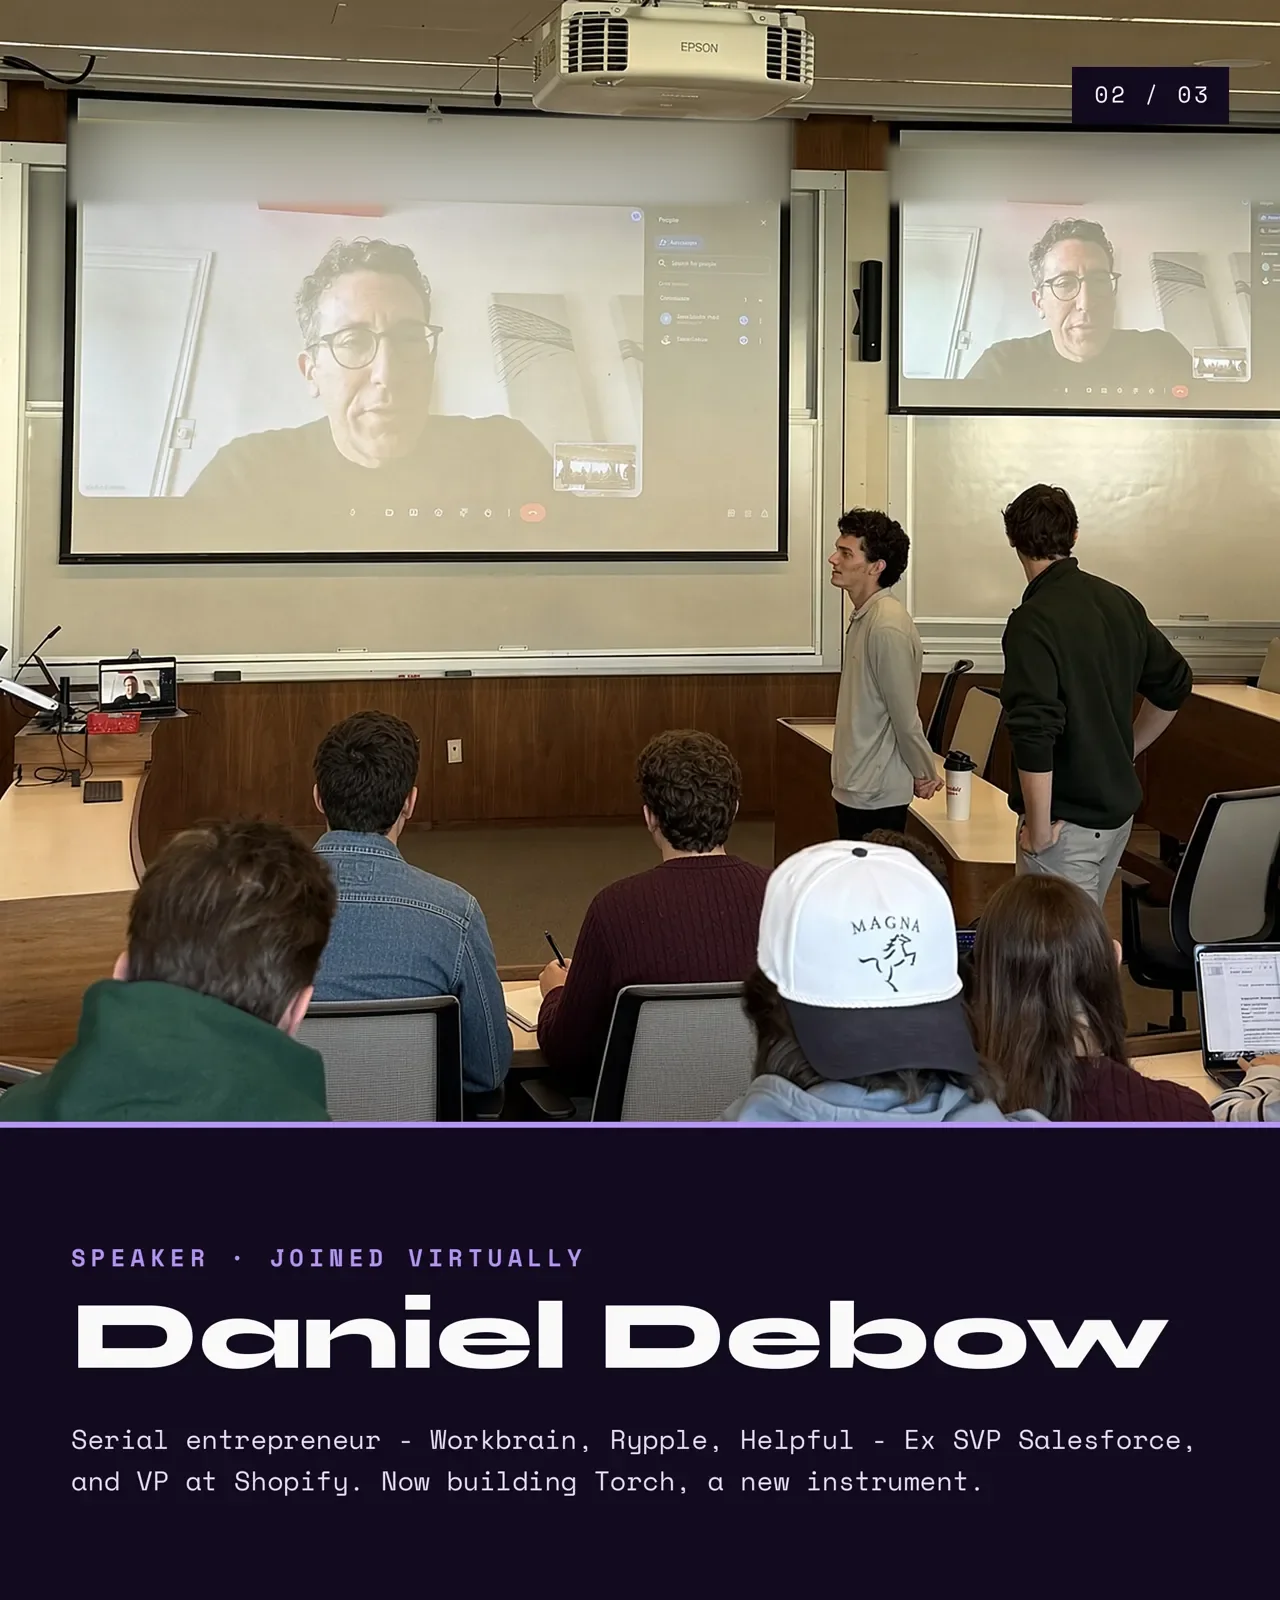
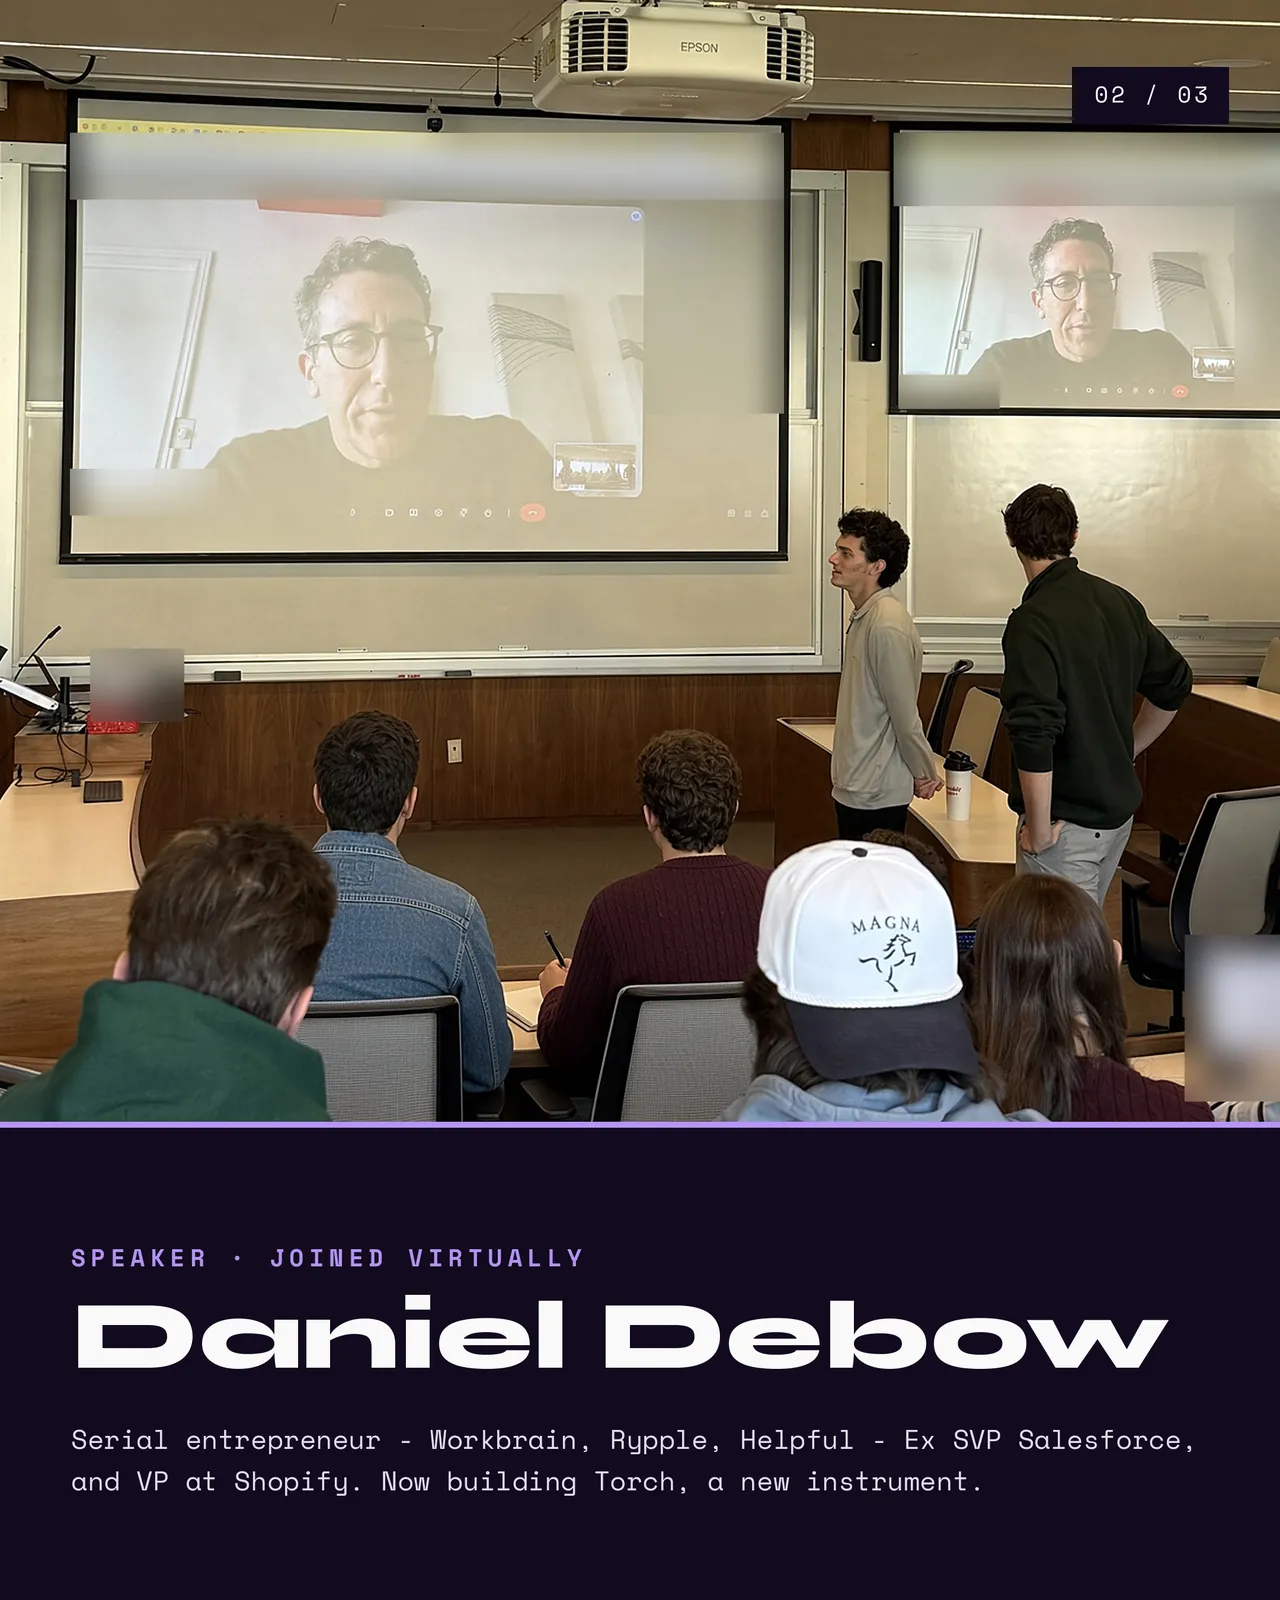
Show the full Debow and Conrad recap photos.
Replace both files with the blurred exports, encoded like the other recap WebPs, and drop the crop that hid the caption bar.

diff --git a/index.html b/index.html
@@ -299,10 +299,10 @@
             <img src="/assets/events/01-recap-group.webp" width="1280" height="1600" alt="Members in Ivey Building Room 1130 at the Build with AI Workshop, Friday November 6." loading="lazy" decoding="async">
           </figure>
           <figure>
-            <img class="recap-photo--speaker" src="/assets/events/02-debow.webp" width="1280" height="1600" alt="Daniel Debow on a video call during the Build with AI Workshop. He joined virtually." loading="lazy" decoding="async">
+            <img src="/assets/events/02-debow.webp" width="1280" height="1600" alt="Daniel Debow on a video call during the Build with AI Workshop. He joined virtually." loading="lazy" decoding="async">
           </figure>
           <figure>
-            <img class="recap-photo--speaker" src="/assets/events/03-conrad.webp" width="1280" height="1600" alt="Parker Conrad on a video call during the Build with AI Workshop. He joined virtually." loading="lazy" decoding="async">
+            <img src="/assets/events/03-conrad.webp" width="1280" height="1600" alt="Parker Conrad on a video call during the Build with AI Workshop. He joined virtually." loading="lazy" decoding="async">
           </figure>
           <figure>
             <img src="/assets/events/04-truell-slide.webp" width="1200" height="1600" alt="A slide about Michael Truell, Cursor, projected in Ivey Building Room 1130 during the Build with AI Workshop." loading="lazy" decoding="async">

diff --git a/style.css b/style.css
@@ -6027,21 +6027,3 @@ main .block h2,
   }
 }
 
-.recap-roll figure:has(.recap-photo--speaker) {
-  position: relative;
-  aspect-ratio: 4 / 5;
-  overflow: hidden;
-  border-radius: 16px;
-}
-
-.recap-roll .recap-photo--speaker {
-  position: absolute;
-  inset: 0 0 auto 0;
-  width: 100%;
-  height: 138%;
-  max-width: none;
-  aspect-ratio: auto;
-  object-fit: cover;
-  object-position: center top;
-  border-radius: 0;
-}
